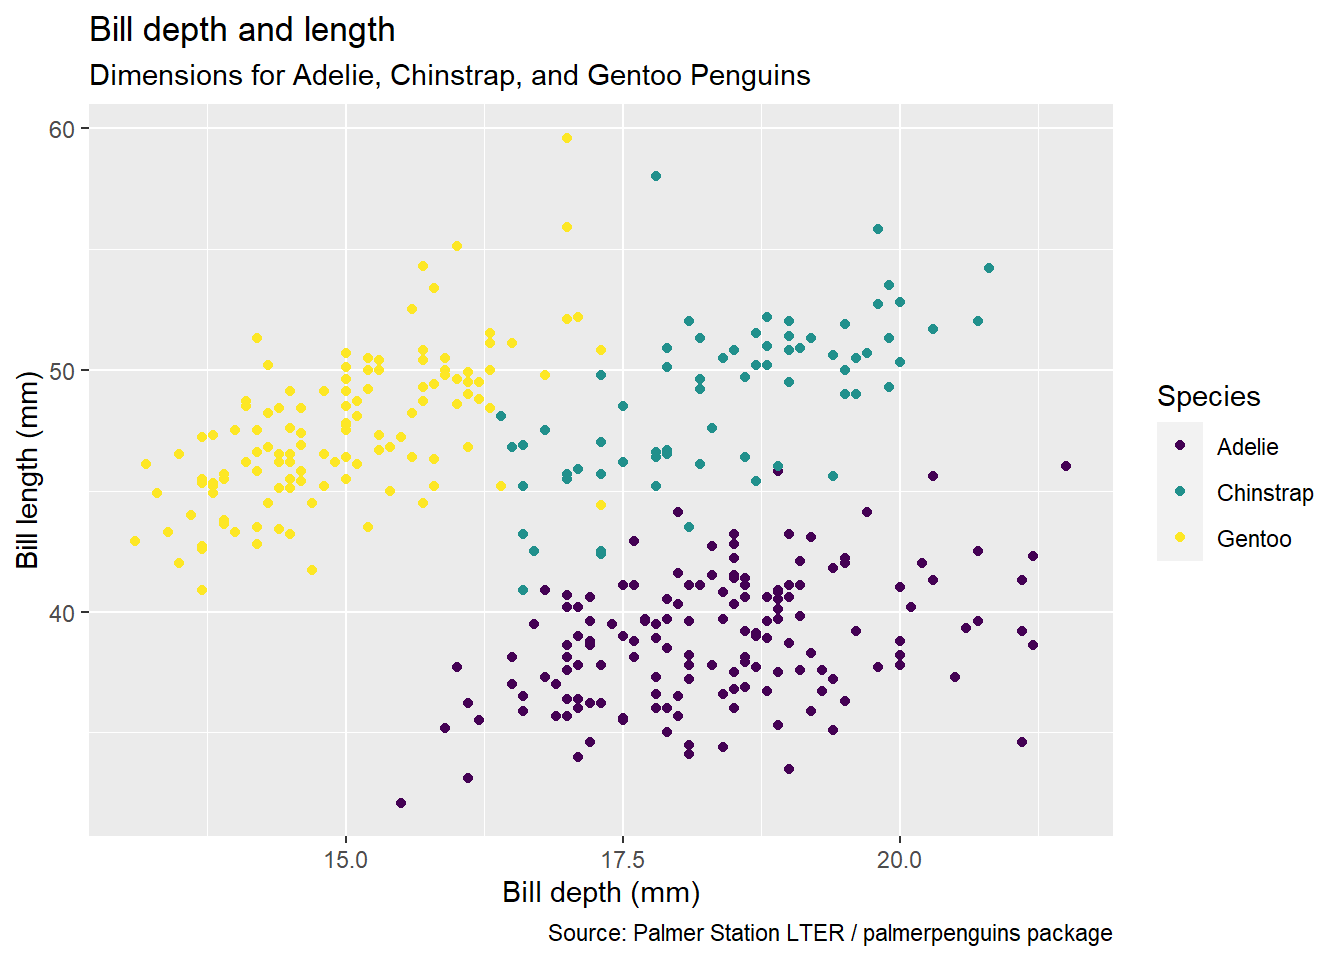
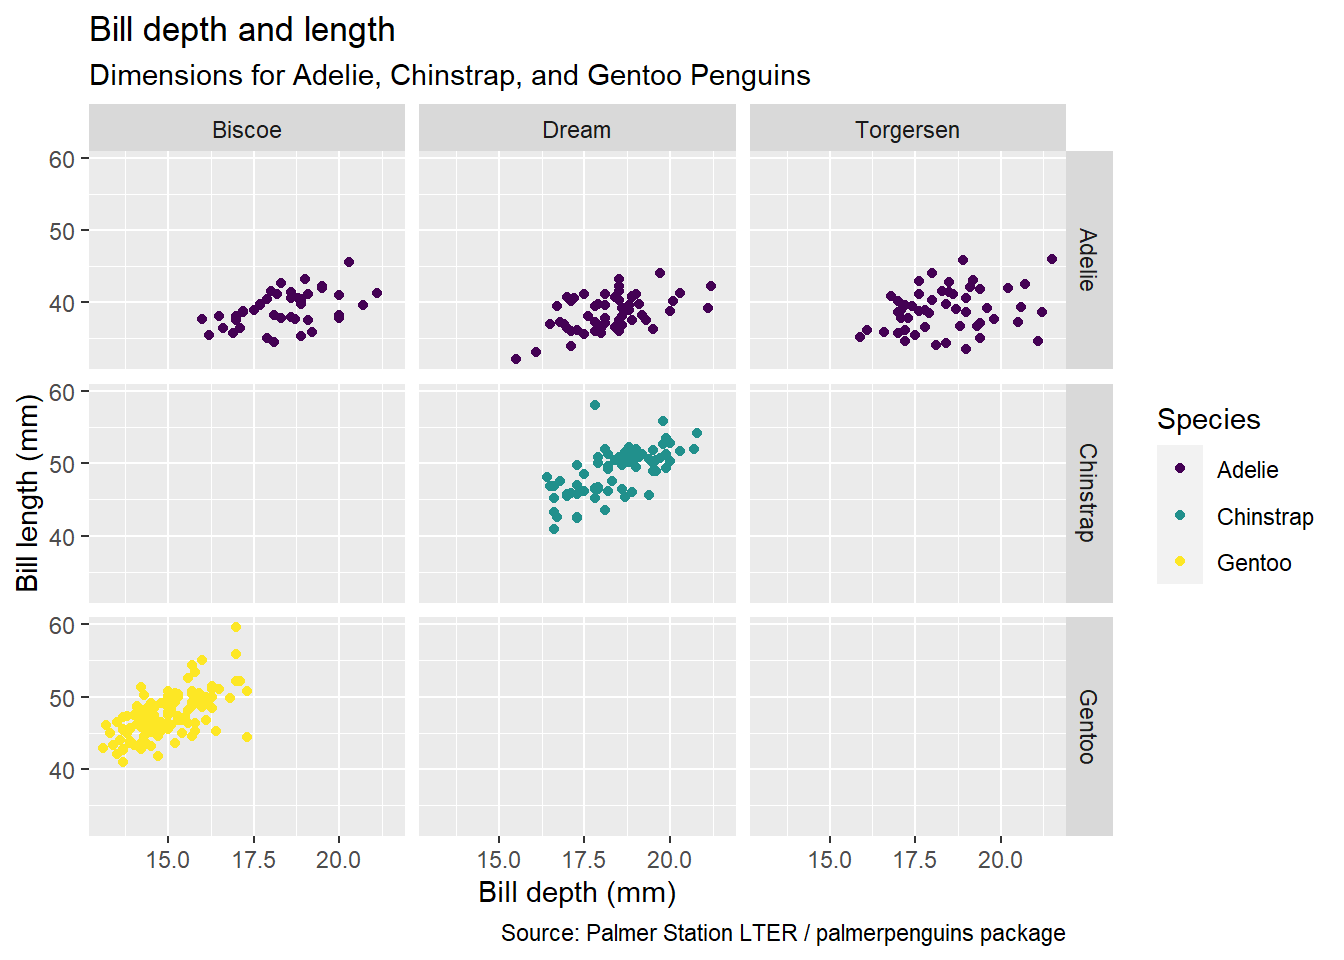
Added facet wraps, removed legends in some charts.

diff --git a/public/2021/05/18/data-visualization-using-ggplot2/index.html b/public/2021/05/18/data-visualization-using-ggplot2/index.html
@@ -22,6 +22,11 @@
 
 
 
+
+<link href='//cdnjs.cloudflare.com/ajax/libs/highlight.js/9.12.0/styles/github.min.css' rel='stylesheet' type='text/css' />
+
+
+
 <link rel="stylesheet" href="/css/fonts.css" media="all">
 <link rel="stylesheet" href="/css/main.css" media="all">
 
@@ -74,7 +79,48 @@
 <div id="palmer-penguins-data-analysis" class="section level2">
 <h2>Palmer Penguins Data Analysis</h2>
 <p>We summarize the Palmer Penguins data using ggplot2 and tidyverse.</p>
+<p>The use of facets and colour to present data.</p>
 <p><img src="/2021/05/18/data-visualization-using-ggplot2/index_files/figure-html/unnamed-chunk-1-1.png" width="672" /></p>
+<p>Also, we can use facets without colour to present data.</p>
+<pre class="r"><code>library(palmerpenguins)
+library(tidyverse)
+ggplot(penguins, 
+       aes(x = bill_depth_mm, y = bill_length_mm)) + 
+  geom_point() +
+  facet_grid( species ~ island )</code></pre>
+<p><img src="/2021/05/18/data-visualization-using-ggplot2/index_files/figure-html/unnamed-chunk-2-1.png" width="672" /></p>
+<p>We can use shapes to display data.</p>
+<pre class="r"><code>library(palmerpenguins)
+library(tidyverse)
+ggplot(penguins,
+       aes(x = bill_depth_mm, 
+           y = bill_length_mm,
+           colour = species,
+           shape = species)) +
+  geom_point() +
+  scale_colour_viridis_d()</code></pre>
+<p><img src="/2021/05/18/data-visualization-using-ggplot2/index_files/figure-html/unnamed-chunk-3-1.png" width="672" /></p>
+<p>We can use size to represent another variable. However, for overlapping data this can be difficult to understand.</p>
+<pre class="r"><code>ggplot(penguins,
+       aes(x = bill_depth_mm, 
+           y = bill_length_mm,
+           colour = species,
+           shape = species,
+           size = body_mass_g)) +
+  geom_point() +
+  scale_colour_viridis_d()</code></pre>
+<p><img src="/2021/05/18/data-visualization-using-ggplot2/index_files/figure-html/unnamed-chunk-4-1.png" width="672" /></p>
+<p>We can include another variable using transparency. Also, to better represent overlapping data, we can use transparency (alpha) to see the data points.</p>
+<pre class="r"><code>ggplot(penguins,
+       aes(x = bill_depth_mm, 
+           y = bill_length_mm,
+           colour = species,
+           shape = species,
+           size = body_mass_g,
+           alpha = flipper_length_mm)) +
+  geom_point() +
+  scale_colour_viridis_d()</code></pre>
+<p><img src="/2021/05/18/data-visualization-using-ggplot2/index_files/figure-html/unnamed-chunk-5-1.png" width="672" /></p>
 </div>
 
     </div>
@@ -98,6 +144,18 @@
 
     </div>
     
+
+
+
+<script src="//cdnjs.cloudflare.com/ajax/libs/highlight.js/9.12.0/highlight.min.js"></script>
+
+
+
+<script src="//cdnjs.cloudflare.com/ajax/libs/highlight.js/9.12.0/languages/r.min.js"></script>
+<script src="//cdnjs.cloudflare.com/ajax/libs/highlight.js/9.12.0/languages/yaml.min.js"></script>
+<script>hljs.configure({languages: []}); hljs.initHighlightingOnLoad();</script>
+
+
 
     
 

diff --git a/content/post/2021-05-18-data-visualization-using-ggplot2/index.html b/content/post/2021-05-18-data-visualization-using-ggplot2/index.html
@@ -15,7 +15,7 @@ tags: []
 <p>We summarize the Palmer Penguins data using ggplot2 and tidyverse.</p>
 <p>The use of facets and colour to present data.</p>
 <p><img src="{{< blogdown/postref >}}index_files/figure-html/unnamed-chunk-1-1.png" width="672" /></p>
-<p>We can use facets without colour to present data.</p>
+<p>Also, we can use facets without colour to present data with no legend.</p>
 <pre class="r"><code>library(palmerpenguins)
 library(tidyverse)
 ggplot(penguins, 
@@ -23,4 +23,41 @@ ggplot(penguins,
   geom_point() +
   facet_grid( species ~ island )</code></pre>
 <p><img src="{{< blogdown/postref >}}index_files/figure-html/unnamed-chunk-2-1.png" width="672" /></p>
+<p>We can use shapes to display data.</p>
+<pre class="r"><code>library(palmerpenguins)
+library(tidyverse)
+ggplot(penguins,
+       aes(x = bill_depth_mm, 
+           y = bill_length_mm,
+           colour = species,
+           shape = species)) +
+  geom_point() +
+  scale_colour_viridis_d()</code></pre>
+<p><img src="{{< blogdown/postref >}}index_files/figure-html/unnamed-chunk-3-1.png" width="672" /></p>
+<p>We can use size to represent another variable. However, for overlapping data this can be difficult to understand.</p>
+<pre class="r"><code>ggplot(penguins,
+       aes(x = bill_depth_mm, 
+           y = bill_length_mm,
+           colour = species,
+           shape = species,
+           size = body_mass_g)) +
+  geom_point() +
+  scale_colour_viridis_d()</code></pre>
+<p><img src="{{< blogdown/postref >}}index_files/figure-html/unnamed-chunk-4-1.png" width="672" /></p>
+<p>We can include another variable using transparency. Also, to better represent overlapping data, we can use transparency (alpha) to see the data points.</p>
+<pre class="r"><code>ggplot(penguins,
+       aes(x = bill_depth_mm, 
+           y = bill_length_mm,
+           colour = species,
+           shape = species,
+           size = body_mass_g,
+           alpha = flipper_length_mm)) +
+  geom_point() +
+  scale_colour_viridis_d()</code></pre>
+<p><img src="{{< blogdown/postref >}}index_files/figure-html/unnamed-chunk-5-1.png" width="672" /></p>
+<p>We can include a facet wrap.</p>
+<pre class="r"><code>ggplot(penguins, aes(x = bill_depth_mm, y = bill_length_mm)) + 
+  geom_point() +
+  facet_wrap(~ species)</code></pre>
+<p><img src="{{< blogdown/postref >}}index_files/figure-html/unnamed-chunk-6-1.png" width="672" /></p>
 </div>
